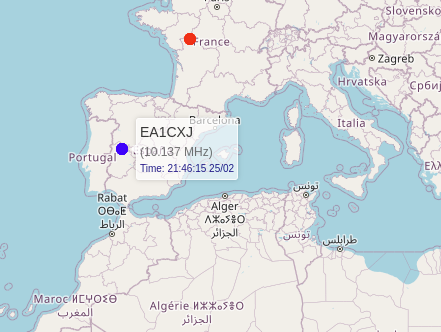
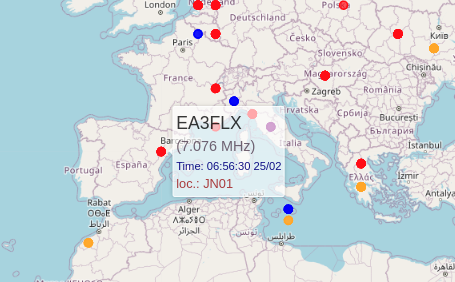
add locator and change text size

diff --git a/templates/index.html b/templates/index.html
@@ -18,14 +18,14 @@
             box-shadow: 0px 0px 5px rgba(0, 0, 0, 0.2);
         }
         .tooltip-content {
-            font-size: 18px; /* Callsign size */
+            font-size: 22px; /* Callsign size */
         }
         .tooltip-frequency {
-            font-size: 14px; /*  for frequency */
+            font-size: 18px; /*  for frequency */
             color: #656;
         }
-       .time {font-size: 10px; color: navy;}
-       .locator {font-size: 12px; color: brown;}
+       .time {font-size: 14px; color: navy;}
+       .locator {font-size: 16px; color: brown;}
     </style>
 </head>
 <body>
